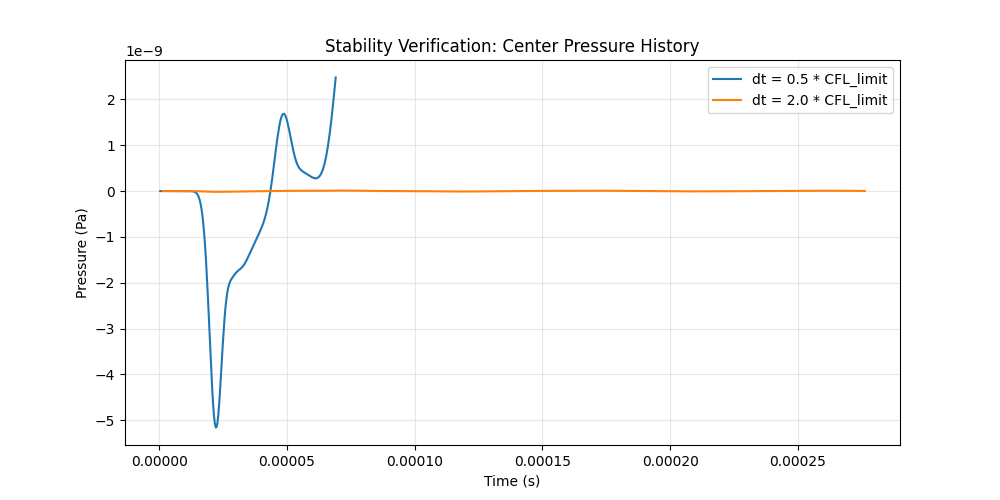
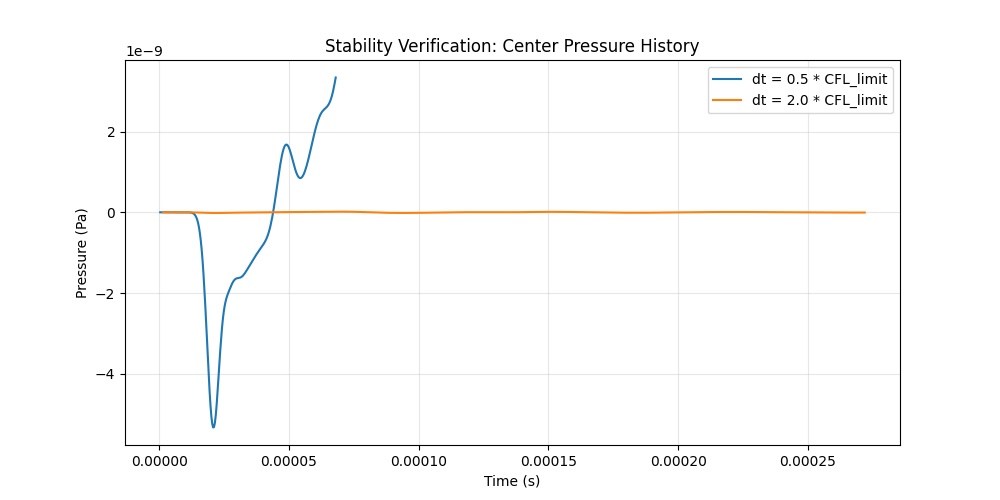
end

diff --git a/Final_project/src/main.py b/Final_project/src/main.py
@@ -15,7 +15,8 @@ plt.style.use('default')
 def task_a_stability():
     print("\n[Task A] 验证大时间步长稳定性...")
     N = 65
-    model = LiverModel(N, N)
+    h = 0.1 / N
+    model = LiverModel(h=h)
     
     # 对比 0.5倍 CFL (显式稳定) 和 2.0倍 CFL (隐式稳定，显式会炸)
     factors = [0.5, 2.0]
@@ -51,7 +52,8 @@ def task_a_stability():
 def task_b_solvers_comparison():
     print("\n[Task B] 对比四种迭代求解器 (Jacobi, GS, SOR, CG)...")
     N = 65
-    model = LiverModel(N, N)
+    h = 0.1 / N
+    model = LiverModel(h=h)
     sim = CNSimulation(model, dt_factor=2.0)
     print("  Running explicit steps to generate wave field...")
     for _ in range(50):
@@ -104,7 +106,8 @@ def task_b_solvers_comparison():
 def task_c_mg_smoothing():
     print("\n[Task C] 分析 MG 平滑次数影响...")
     N = 129
-    model = LiverModel(N, N)
+    h = 0.1 / N
+    model = LiverModel(h=h)
     sim = CNSimulation(model, dt_factor=2.0)
     print("  Running explicit steps to generate wave field...")
     for _ in range(50):
@@ -137,7 +140,7 @@ def task_d_complexity():
     
     # 1. 预热 (Warm-up) - 极其重要，消除首次编译抖动
     print("  Performing JIT warm-up...")
-    warmup_sim = CNSimulation(LiverModel(33, 33))
+    warmup_sim = CNSimulation(LiverModel(h=0.1/33))
     warmup_sim.step(method='mg', max_iter=1)
     warmup_sim.step(method='jacobi', max_iter=1)
     warmup_sim.step(method='cg', max_iter=1)
@@ -161,6 +164,8 @@ def task_d_complexity():
         prev_N = None
         
         for N in config['sizes']:
+            h = 0.1 / N
+            model = LiverModel(h=h)
             model = LiverModel(N, N)
             sim = CNSimulation(model, dt_factor=2.0)
             sim.p_curr[int(N/2), int(N/2)] = 1.0 
@@ -224,7 +229,8 @@ def task_d_complexity():
 def task_visualization():
     print("\n[Visualization] 生成波场快照...")
     N = 257
-    model = LiverModel(N, N)
+    h = 0.1 / N
+    model = LiverModel(h=h)
     sim = CNSimulation(model, dt_factor=2.0)
     
     # 运行一段时间并截图

diff --git a/Final_project/src/model.py b/Final_project/src/model.py
@@ -42,14 +42,33 @@ def ricker_wavelet(t, f0):
     return val
 
 class LiverModel:
-    def __init__(self, nx, ny):
-        self.nx = nx
-        self.ny = ny
-        self.dx = cfg.L_X / (nx - 1)
-        self.dy = cfg.L_Y / (ny - 1)
+    def __init__(self, nx=None, ny=None, h=None):
+        """
+        初始化支持两种模式：
+        1. 指定网格数: LiverModel(nx=65, ny=65) -> 此时 dx, dy 可能不相等
+        2. 指定步长 h: LiverModel(h=0.5e-3)    -> 自动计算 nx, ny，保证 dx≈dy≈h
+        """
+        if h is not None:
+            # 模式 1: 基于步长 h 自动计算最近似的整数网格点
+            # N = L / h + 1
+            self.nx = int(np.round(cfg.L_X / h)) + 1
+            self.ny = int(np.round(cfg.L_Y / h)) + 1
+        else:
+            # 模式 2: 手动指定 nx, ny
+            if nx is None or ny is None:
+                raise ValueError("Must specify either 'h' or both 'nx' and 'ny'")
+            self.nx = nx
+            self.ny = ny
+
+        # 反算真实的 dx, dy (确保网格精确覆盖 L_X, L_Y)
+        self.dx = cfg.L_X / (self.nx - 1)
+        self.dy = cfg.L_Y / (self.ny - 1)
+        
+        # 打印一下实际的网格信息，方便确认
+        # print(f"Model initialized: {self.nx}x{self.ny}, dx={self.dx:.2e}, dy={self.dy:.2e}")
         
         # 初始化声速场
-        self.c_map = generate_velocity_map(nx, ny, self.dx, self.dy)
+        self.c_map = generate_velocity_map(self.nx, self.ny, self.dx, self.dy)
         self.c_max = np.max(self.c_map)
         
         # 计算源在网格中的索引

diff --git a/Final_project/src/config.py b/Final_project/src/config.py
@@ -8,7 +8,7 @@ C_HARD = 1600.0    # 硬化区域声速
 
 # --- 几何模型参数 (单位: m) ---
 L_X = 0.1          # 计算域宽度
-L_Y = 0.1          # 计算域高度 (为了多重网格方便，建议设为正方形)
+L_Y = 0.08         # 计算域高度 (为了多重网格方便，建议设为正方形)
 CENTER_X = 0.05    # 同心圆中心 X
 CENTER_Y = 0.04    # 同心圆中心 Y
 R_INNER = 0.015    # 硬化区半径
